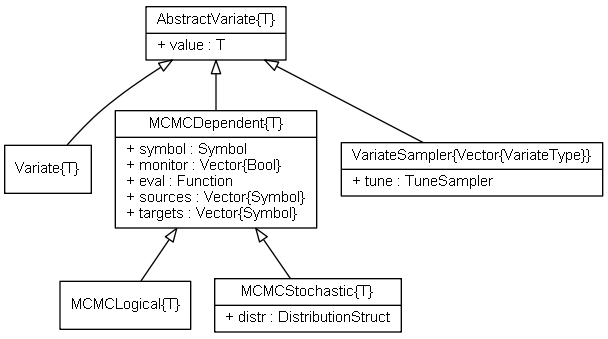
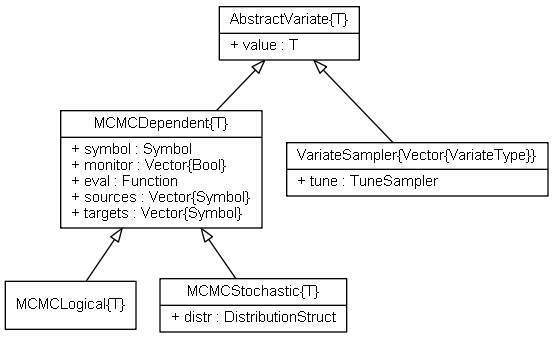
Remove concrete 'Variate' type.

diff --git a/doc/variate.rst b/doc/variate.rst
@@ -97,8 +97,6 @@ Statistics
 	mean     stdm
 
 
-.. index:: Variate
-
 Subtypes
 ----------
 
